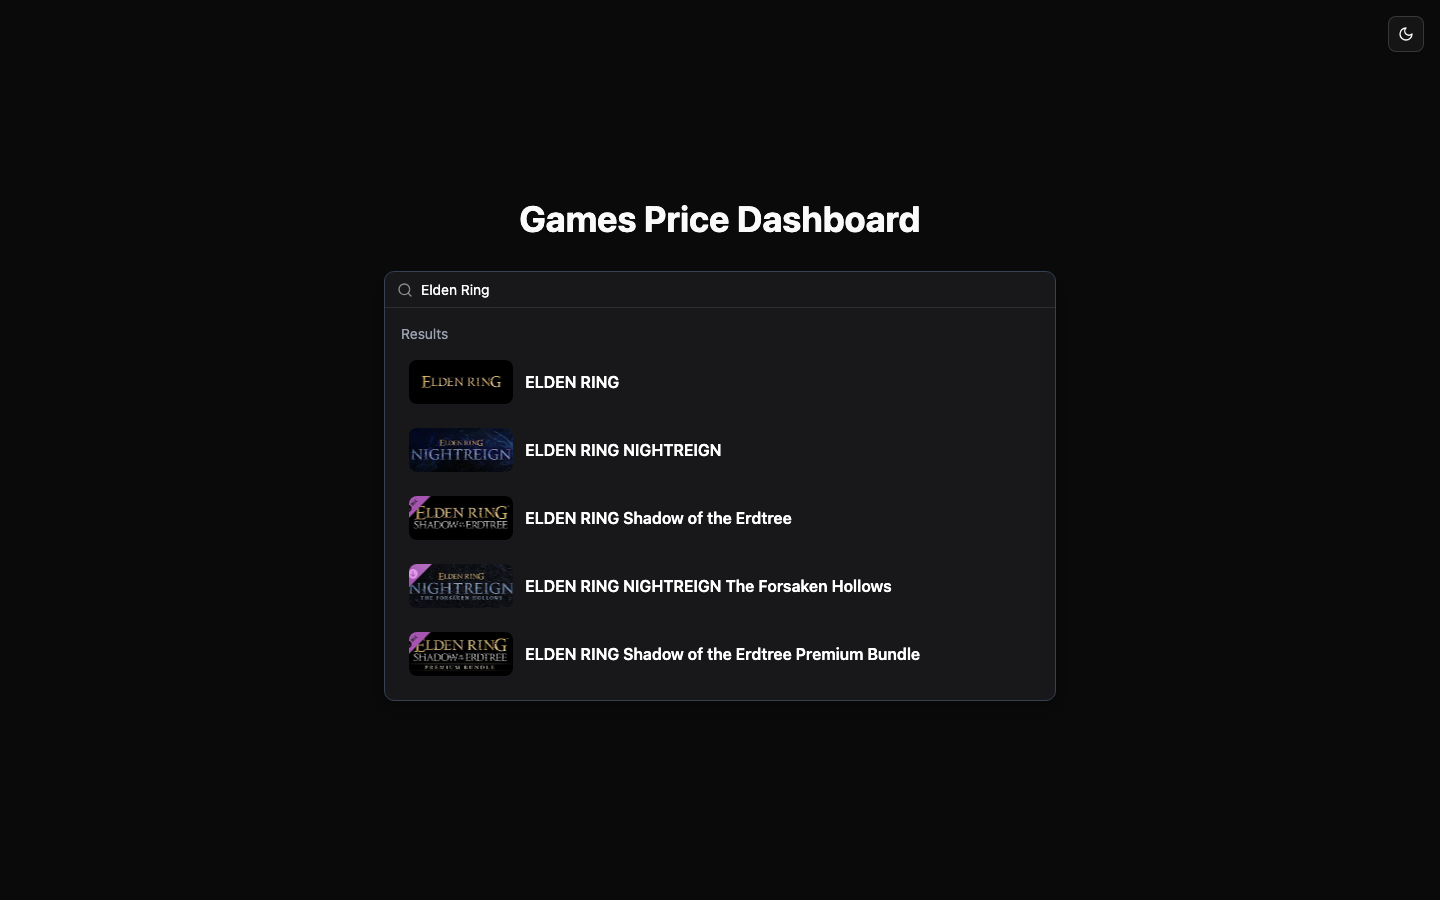
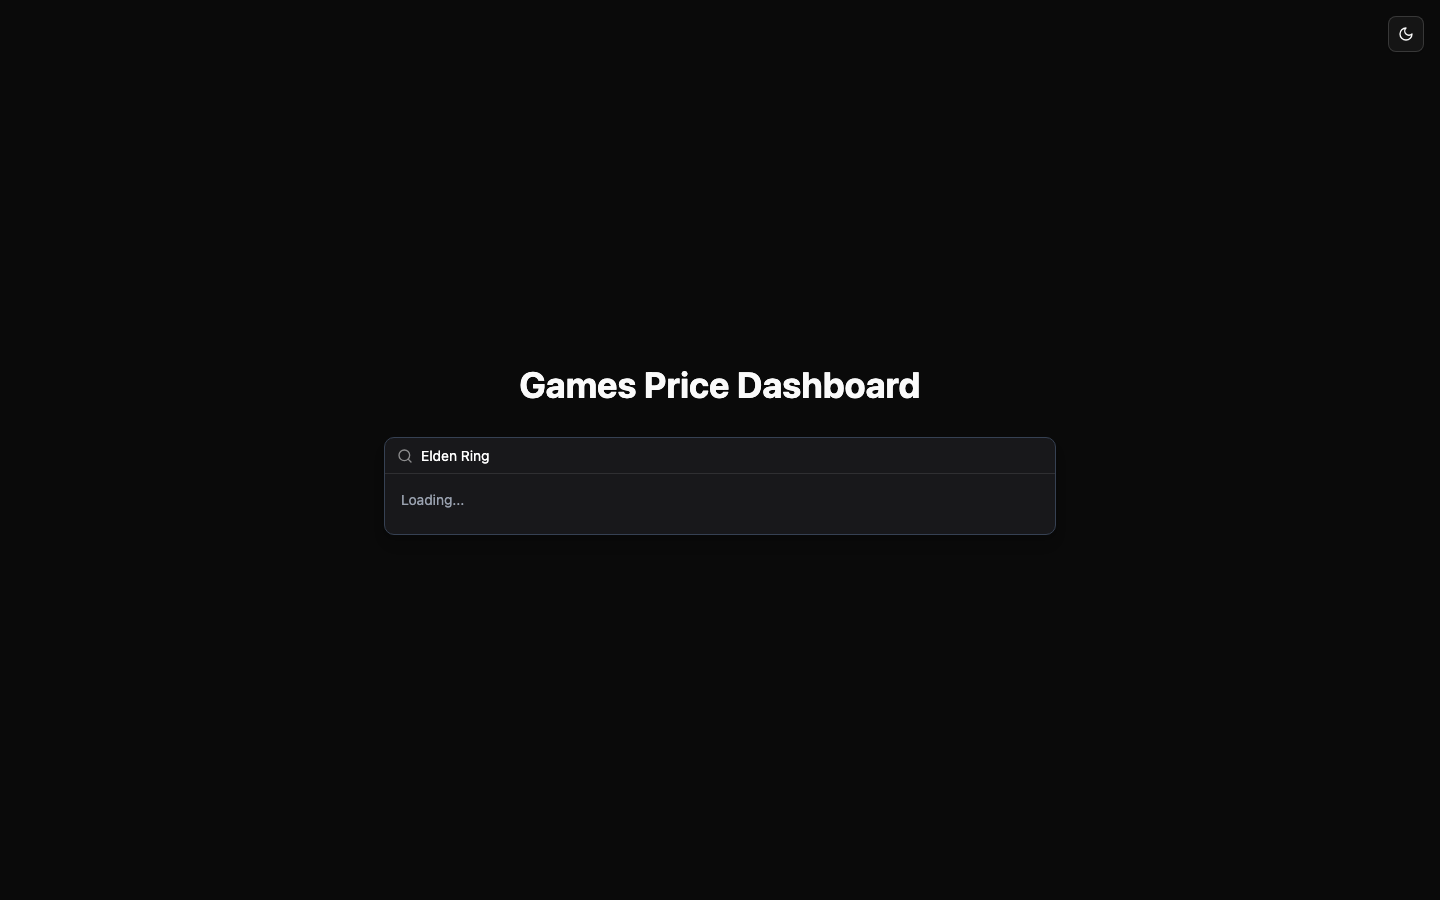
Render grey sample-data notes for fallback responses; full page screenshots

Changed region(s): [[0.2812, 0.4044, 0.6562, 0.7467], [0.3438, 0.2178, 0.6562, 0.28], [0.2812, 0.3111, 0.3438, 0.3733]]

diff --git a/src/components/DiscountPrediction.tsx b/src/components/DiscountPrediction.tsx
@@ -6,6 +6,8 @@ interface PredictionData {
   old_price: number; //the price in the latest month in the data
   original_price: number;
   confidence: number | string; // Added confidence field
+  fallback?: boolean;
+  note?: string;
 }
 
 interface DiscountPredictionProps {
@@ -112,6 +114,11 @@ export function DiscountPrediction({ gameId, currentPrice }: DiscountPredictionP
   return (
     <div className="rounded-lg p-8 w-full shadow-lg border">
       <div className="text-lg font-semibold mb-2 text-white">Next Discount Prediction</div>
+      {prediction.fallback && (
+        <div className="text-xs text-gray-500 mb-2">
+          {prediction.note ?? 'Sample estimate — AI prediction API unavailable'}
+        </div>
+      )}
 
       {prediction.confidence === "Low - Insufficient data" ? (
         <div className="text-md text-gray-400 mb-2">

diff --git a/src/components/PriceHistoryChart.tsx b/src/components/PriceHistoryChart.tsx
@@ -16,6 +16,8 @@ interface PriceHistoryData {
     store: string;
     date: string;
   };
+  fallback?: boolean;
+  note?: string;
 }
 
 interface PriceHistoryChartProps {
@@ -205,6 +207,11 @@ export function PriceHistoryChart({ gameId, currentPrice }: PriceHistoryChartPro
         {/* Chart on the left */}
         <div className="rounded-lg p-4 bg-transparent w-full md:w-auto overflow-x-auto">
           <svg ref={svgRef}></svg>
+          {priceHistoryData.fallback && (
+            <p className="text-xs text-gray-500 mt-1 text-center">
+              {priceHistoryData.note ?? 'Sample data — live price API unavailable'}
+            </p>
+          )}
         </div>
         {/* Indicator and prediction stacked on the right */}
         <div className="flex flex-col items-start gap-1 w-full md:w-[320px] mt-4 md:mt-[-50px]">

diff --git a/README.md b/README.md
@@ -6,11 +6,15 @@ React + TypeScript dashboard for tracking Steam game prices: search any game, vi
 
 > ⚠️ The free-tier backend hosting (Railway) has expired, so search on the live site is currently offline — run the stack locally with the steps below. The UI itself is fully deployed.
 
+> ℹ️ **Sample-data fallback:** the app runs fully without API keys. When the price-history (ITAD) or prediction (Gemini) APIs are unavailable, the backend serves clearly-flagged sample data and the UI marks it with small grey text ("Sample data — live price API unavailable"), as in the screenshot below.
+
 ## Preview
 
 | Home | Search |
 |---|---|
 | ![Home](docs/screenshots/home.png) | ![Search results](docs/screenshots/app-search.png) |
+
+![Game details with price history and prediction](docs/screenshots/game-details.png)
 
 ## Features
 